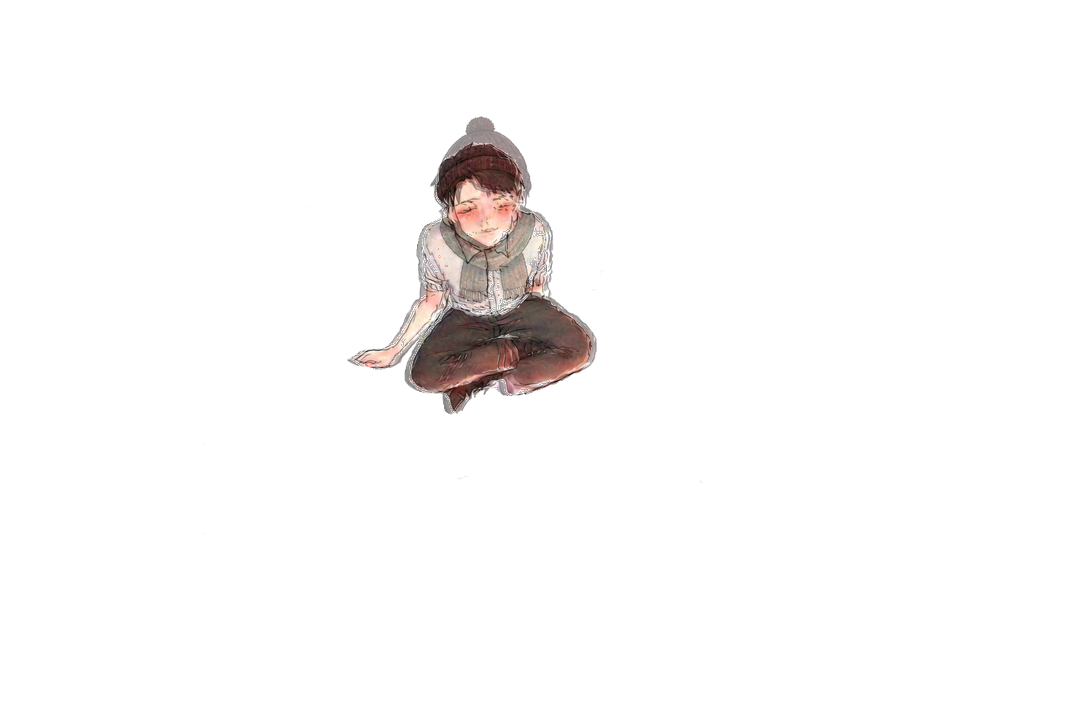
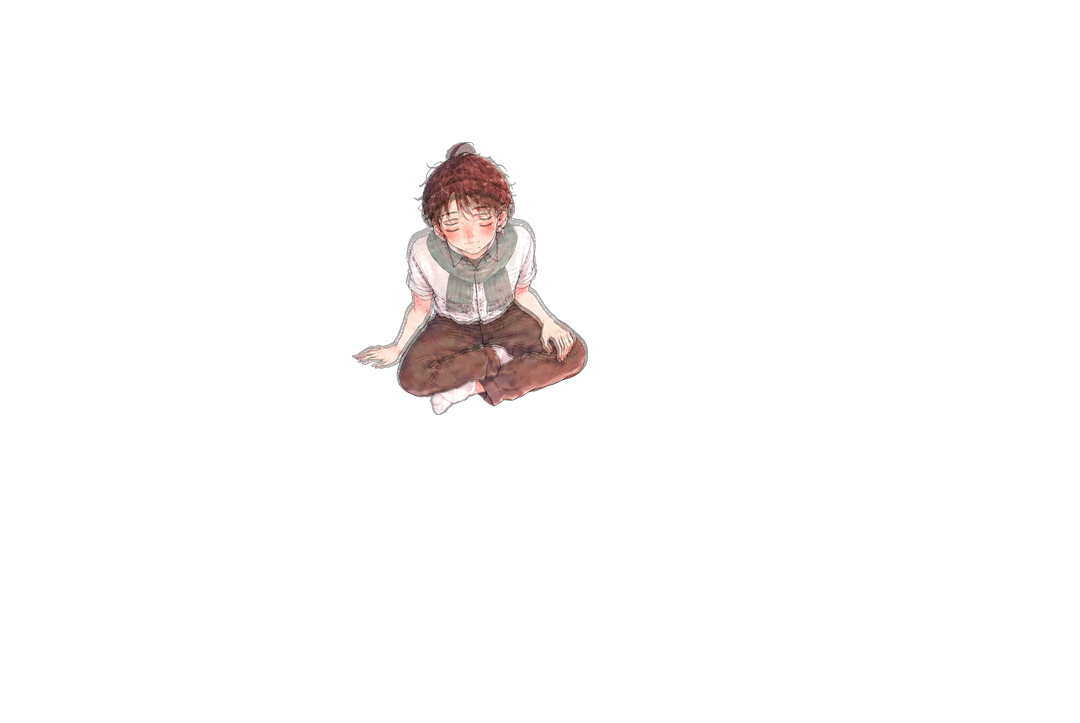
Regenerate about boy and unlock headphone scene interactions

Changed region(s): [[0.3056, 0.1521, 0.55, 0.5781]]

diff --git a/index.html b/index.html
@@ -18,7 +18,7 @@
         <!-- Bike Scene Animation Frame -->
         <img class="bike-scene-item" id="bike-animator" src="assets/scene2/frame1.png" alt="Cycling Animation">
         <img class="interactive-item" id="cycle" src="assets/a/cycle_transparent.png" alt="Bicycle">
-        <img class="interactive-item" id="boy" src="assets/a/boy_transparent.png" alt="Boy">
+        <img class="interactive-item" id="boy" src="assets/a/boy_transparent.png?v=regenerated-about-v5" alt="Boy">
         <section id="winter-boy" class="winter-boy" aria-label="Living in Sapporo, Hokkaido">
             <div class="winter-snow winter-snow-back" aria-hidden="true"></div>
             <div class="aurora-light" aria-hidden="true">
@@ -27,7 +27,7 @@
                 <div class="aurora-curtain aurora-curtain-three"></div>
                 <div class="aurora-reflection"></div>
             </div>
-            <img id="winter-boy-animator" src="assets/winter_boy/f0.png?v=full-winter-v3" alt="Boy putting on a winter cap and muffler">
+            <img id="winter-boy-animator" src="assets/winter_boy/f0.png?v=regenerated-about-v5" alt="Boy putting on a winter cap and muffler">
             <canvas class="surface-snow" id="boy-surface-snow" width="1080" height="723" aria-hidden="true"></canvas>
             <canvas class="surface-snow" id="cycle-surface-snow" width="1080" height="723" aria-hidden="true"></canvas>
             <canvas class="surface-snow bag-surface-snow" id="bag-surface-snow" width="1080" height="723" aria-hidden="true"></canvas>
@@ -137,7 +137,7 @@
         </section>
 
         <section id="grass-relax" class="grass-relax" aria-label="Relaxing in a field while listening to music">
-            <img id="grass-boy-animator" class="grass-boy-animator" src="assets/grass_relax/f0.png?v=relax-motion-v19" alt="Boy transitioning into a peaceful resting pose">
+            <img id="grass-boy-animator" class="grass-boy-animator" src="assets/grass_relax/f0.png?v=regenerated-about-v23" alt="Boy transitioning into a peaceful resting pose">
             <p class="grass-note">sometimes the best thing<br>to build is a little quiet.</p>
         </section>
 
@@ -331,8 +331,19 @@
                 });
                 
                 const targetName = box.getAttribute('data-target');
+                const returningFromHeadphoneBoy = grassRelaxActive && targetName === 'boy';
 
                 resetActiveDeskAnimations(targetName);
+
+                // A second click on the headphone boy returns to the default
+                // desk rather than immediately starting the winter scene.
+                if (returningFromHeadphoneBoy) {
+                    document.querySelectorAll('.interactive-item').forEach(item => {
+                        item.style.opacity = '';
+                        item.style.transform = '';
+                    });
+                    return;
+                }
                 
 
 
@@ -544,7 +555,7 @@
         const winterBoy = document.getElementById('winter-boy');
         const winterBoyAnimator = document.getElementById('winter-boy-animator');
         const winterFrames = [];
-        const winterVersion = 'full-winter-v4';
+        const winterVersion = 'regenerated-about-v5';
         for (let i = 0; i <= 6; i++) {
             const img = new Image();
             img.src = `assets/winter_boy/f${i}.png?v=${winterVersion}`;
@@ -1121,7 +1132,7 @@
         const grassBoyFrameCount = 7;
         for (let i = 0; i < grassBoyFrameCount; i++) {
             const img = new Image();
-            img.src = `assets/grass_relax/f${i}.png?v=relax-motion-v19`;
+            img.src = `assets/grass_relax/f${i}.png?v=regenerated-about-v23`;
             grassBoyFrames[i] = img;
         }
         let grassRelaxActive = false;
@@ -1148,11 +1159,10 @@
             grassRelax.classList.add('is-active');
             window.sakura.start();
 
-            const grassFrameTimes = [0, 220, 400, 575, 750, 930, 1120];
             grassBoyFrames.forEach((frame, index) => {
                 grassTimers.push(setTimeout(() => {
                     grassBoyAnimator.src = frame.src;
-                }, grassFrameTimes[index]));
+                }, [0, 220, 400, 575, 750, 930, 1120][index]));
             });
             grassTimers.push(setTimeout(() => grassRelax.classList.add('is-relaxed'), 1280));
         }

diff --git a/style.css b/style.css
@@ -699,10 +699,6 @@ body.grass-relax-active .headphone-connect {
     transform: translate(calc(100% * 35 / 1080), calc(100% * -50 / 723));
 }
 
-body.grass-relax-active .hitbox {
-    pointer-events: none;
-}
-
 @media (prefers-reduced-motion: reduce) {
     .grass-boy-animator,
     .grass-note { transition-duration: .01ms !important; transition-delay: 0s !important; }

diff --git a/assets/a/build_about_boy.py b/assets/a/build_about_boy.py
@@ -1,0 +1,52 @@
+from pathlib import Path
+
+import numpy as np
+from PIL import Image
+
+
+ROOT = Path(__file__).resolve().parents[2]
+ASSETS = ROOT / "assets"
+NORMAL_GREEN = ASSETS / "a/about_boy_regenerated_green.png"
+WINTER_GREEN = ASSETS / "winter_boy/about_boy_regenerated_winter_green.png"
+NORMAL_OUT = ASSETS / "a/boy_transparent.png"
+WINTER_DIR = ASSETS / "winter_boy"
+CANVAS_SIZE = (1080, 723)
+
+
+def remove_green(path):
+    rgb = np.array(Image.open(path).convert("RGB"))
+    red = rgb[:, :, 0].astype(np.int16)
+    green = rgb[:, :, 1].astype(np.int16)
+    blue = rgb[:, :, 2].astype(np.int16)
+    excess = green - np.maximum(red, blue)
+    alpha = np.clip((110 - excess) * (255 / 75), 0, 255).astype(np.uint8)
+
+    # Neutralize green spill only along partially transparent antialiased edges.
+    edge = (alpha > 0) & (alpha < 255)
+    rgb[:, :, 1][edge] = np.minimum(
+        rgb[:, :, 1][edge], np.maximum(rgb[:, :, 0][edge], rgb[:, :, 2][edge])
+    )
+    return Image.fromarray(np.dstack((rgb, alpha)), "RGBA")
+
+
+def fit(source, target_height=273, center_x=470, top=142):
+    source = source.crop(source.getchannel("A").getbbox())
+    width = round(source.width * target_height / source.height)
+    source = source.resize((width, target_height), Image.Resampling.LANCZOS)
+    canvas = Image.new("RGBA", CANVAS_SIZE, (0, 0, 0, 0))
+    canvas.alpha_composite(source, (round(center_x - width / 2), top))
+    return canvas
+
+
+normal = fit(remove_green(NORMAL_GREEN))
+winter = fit(remove_green(WINTER_GREEN))
+normal.save(NORMAL_OUT, optimize=True)
+winter.save(WINTER_DIR / "winter_final.png", optimize=True)
+
+# Match the proven winter animation: identical canvas and smoothstep blending.
+for index in range(7):
+    progress = index / 6
+    eased = progress * progress * (3 - 2 * progress)
+    Image.blend(normal, winter, eased).save(WINTER_DIR / f"f{index}.png", optimize=True)
+
+print("Built the relaxed about boy and seven aligned winter frames")

diff --git a/assets/grass_relax/build_frames.py b/assets/grass_relax/build_frames.py
@@ -35,8 +35,7 @@ def remove_chroma_green(source_name, output_name):
 bridge_one = remove_chroma_green("bridge-pose-1-green.png", "bridge-pose-1-cutout.png")
 bridge_two = remove_chroma_green("bridge-pose-2-green.png", "bridge-pose-2-cutout.png")
 
-# Seven genuine drawings, like the winter sequence. Each pose advances a real
-# body action; complete silhouettes are never dissolved into one another.
+# Real pose progression from the compact about pose into the relaxed pose.
 keyframes = [
     seated_source,
     fit_image(bridge_one),
